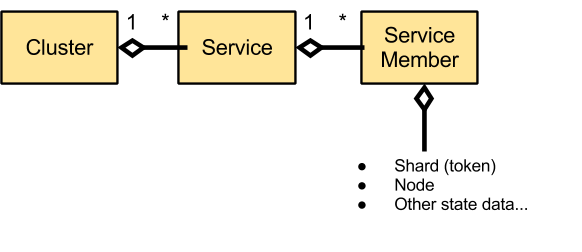
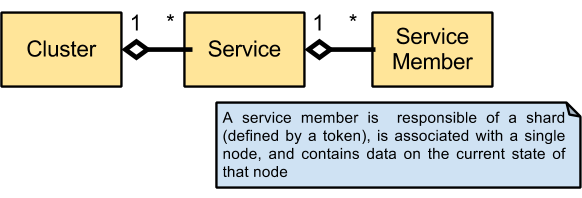
fixed nrv intro diagram

diff --git a/README.md b/README.md
@@ -2,10 +2,10 @@
 
 ## Description
 
-SPKR is a small distributed store server for a social platform designed to demonstrate the Wajam  frameworks (Nrv, Mry, Spnl, Scn).
+SPKR is a small distributed store server for a social platform designed to demonstrate the Wajam  frameworks (NRV, MRY, SPNL, SCN).
 
 ## Quick start
 
-See [SPKR wiki](https://github.com/wajam/spkr/wiki) for conceptual introduction, setup instructions and full application documentation.
+See [SPKR wiki](https://github.com/wajam/spkr/wiki) for conceptual introduction, setup instructions, application architecture, database model, etc.
 
 
